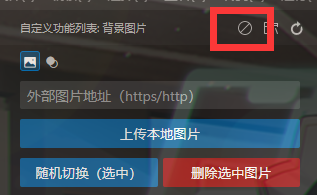
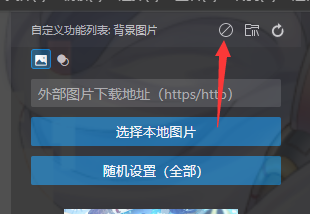
readme文件调整

diff --git a/README.md b/README.md
@@ -25,95 +25,136 @@
 
 ### 使用介绍
   - **上传图片：**
-    安装完扩展后，侧栏会出现此图标
+    1. 安装完扩展后，侧栏会出现此图标：
     <p align="center">
       <img width="200" src="https://raw.githubusercontent.com/wangyige0701/vscode-custom-extension/master/resources/docs/background/side-bar.png" />
     </p>
-    点击此图标，会进入操作页面，上传图片有两种方式：本地图片和网络图片
+    2. 点击图标，会进入操作页面，选择背景图片有两种方式：本地图片和网络图片：
     <p align="center">
       <img width="200" src="https://raw.githubusercontent.com/wangyige0701/vscode-custom-extension/master/resources/docs/background/local.png" alt="本地图片/local" />
       <img width="200" src="https://raw.githubusercontent.com/wangyige0701/vscode-custom-extension/master/resources/docs/background/network.png" alt="网络图片/network" />
     </p>
-    本地图片直接从文件夹选择，网络图片需要在输入框内输入图片地址，图片下载并保存成功后会在下方的列表中显示
+    3. 本地图片直接从文件夹选择，网络图片需要在输入框内输入图片地址。图片保存成功后会在下方的列表中显示：
     <p align="center">
       <img height="300" src="https://raw.githubusercontent.com/wangyige0701/vscode-custom-extension/master/resources/docs/background/display-in-list.png" />
     </p>
+  <br/>
+
   - **设置背景：**
-    点击图片列表的任意图片，弹框选择确认就成功设置背景，应用背景需要右下角弹框内选择重启窗口。
+    点击图片列表的任意图片，弹框选择确认就成功设置背景，设置完成后需要重启软件才能看到背景图应用。
+  <br/>
+
   - **删除图片：**
-    点击图片左上角的删除按钮就可以删除此图片，如果删除了当前设置的背景图，背景样式不会因此消失，仍可以正常显示，直到下一次切换背景。
+    点击图片右上角的删除按钮就可以删除此图片。如果删除了当前设置的背景图，背景样式不会因此消失，仍可以正常显示，直到下一次切换背景。
     <p align="center">
       <img width="200" src="https://raw.githubusercontent.com/wangyige0701/vscode-custom-extension/master/resources/docs/background/delete-image.png" />
     </p>
+  <br/>
+
   - **多选操作：**
-    点击图片左上角可以选中一张图片，选中的图片可以进行两种操作，一是同时删除，二是随机切换选中图片（下一条）
+    1. 点击图片左上角的按钮可以选中一张图片：
     <p align="center">
-      <img width="200" src="https://raw.githubusercontent.com/wangyige0701/vscode-custom-extension/master/resources/docs/background/checkbox.png" />
+      <img width="200" src="https://raw.githubusercontent.com/wangyige0701/vscode-custom-extension/master/resources/docs/background/select-image.png" />
     </p>
-    选中了一张图片后，可以进行全选和取消全选的操作
+    2. 在选中一张图片后可以进行全选或者取消选中的操作：
     <p align="center">
       <img width="200" src="https://raw.githubusercontent.com/wangyige0701/vscode-custom-extension/master/resources/docs/background/select-all.png" />
     </p>
+    3. 对于选中的图片可以进行一下两种操作 
+
+      - 同时删除，可以同时删除所有勾选的图片
+    <p align="center">
+      <img width="200" src="https://raw.githubusercontent.com/wangyige0701/vscode-custom-extension/master/resources/docs/background/delect-selected.png" />
+    </p>
+
+      - 随机切换选中图片，在选中的图片中进行背景图随机切换（详情可见下一条随即切换的描述）
+    <p align="center">
+      <img width="200" src="https://raw.githubusercontent.com/wangyige0701/vscode-custom-extension/master/resources/docs/background/random-selected.png" />
+    </p>
+  <br/>
+
   - **随机切换：**
     除了可以设置某张图片为背景，还可以设置多张图片在每次打开软件时切换背景。方式有两种：
-    1、随机切换所有图片，不选中任意图片，点击`随机切换（全部）`按钮可以切换所有图片的任意一张，设置完成后上传的图片也在切换对象中。
+    1. 随机切换所有图片。在不选中任意图片时，点击`随机切换（全部）`按钮可以切换所有图片中的任意一张。设置此状态后新添加的图片也会被加入切换列表。
     <p align="center">
       <img width="200" src="https://raw.githubusercontent.com/wangyige0701/vscode-custom-extension/master/resources/docs/background/random-all.png" />
     </p>
-    2、随机切换选中图片，选中一张以上图片后，点击`随即切换（选中）`按钮，可以切换选中图片的任意一张，上传图片不会影响，但是如果删除了某一张图片，则不会再切换此图片背景。
+    <br/>
+
+    2. 随机切换选中图片。选中一张以上图片后，点击`随即切换（选中）`按钮，可以切换选中图片的任意一张，新上传的图片不会进入切换列表。但是如果删除了某一张图片，则此图片会被移除切换列表。
     <p align="center">
-      <img width="200" src="https://raw.githubusercontent.com/wangyige0701/vscode-custom-extension/master/resources/docs/background/random-select.png" />
+      <img width="200" src="https://raw.githubusercontent.com/wangyige0701/vscode-custom-extension/master/resources/docs/background/random-selected.png" />
     </p>
+  <br/>
+
   - **清除配置：**
-    点击顶部`清除背景图配置`按钮可以关闭背景，修改的css文件会被复原，但是上传的图片仍会保存。
+    点击顶部`清除背景图配置`按钮可以关闭背景图，被修改的css文件会复原，本地保存的图片文件仍会存在。
     <p align="center">
       <img width="200" src="https://raw.githubusercontent.com/wangyige0701/vscode-custom-extension/master/resources/docs/background/clear.png" />
     </p>
+  <br/>
+
   - **切换储存路径：**
-    图片列表中的数据默认保存于扩展根目录下，即C盘中，如果需要切换保存文件夹，可以点击顶部`选择图片储存路径`按钮，修改了默认路径后会出现`重置图片储存路径`按钮，可以将储存路径重置回默认路径。
+    图片列表中的数据默认保存于扩展根目录下，即vscode插件目录里对应的扩展文件夹中。如果需要切换保存文件夹或者希望导入已有的图片文件夹，可以点击顶部`选择图片储存路径`按钮进行路径切换。
     <p align="center">
       <img width="200" src="https://raw.githubusercontent.com/wangyige0701/vscode-custom-extension/master/resources/docs/background/path-modify.png" />
     </p>
+    当修改了默认路径后会出现`重置图片储存路径`按钮，可以将储存路径重置回默认路径。
+    <p align="center">
+      <img width="200" src="https://raw.githubusercontent.com/wangyige0701/vscode-custom-extension/master/resources/docs/background/path-default.png" />
+    </p>
+  <br/>
+
   - **设置不透明度：**
-    修改不透明度输入框可以通过输入0.1~1的任意数字回车或者点击对勾完成设置，默认不透明度是0.3，本人体验最舒适。
+    修改不透明度输入框可以通过输入0.1~1的任意数字，回车或者点击确认按钮完成设置，默认不透明度是0.3。
     <p align="center">
       <img width="200" src="https://raw.githubusercontent.com/wangyige0701/vscode-custom-extension/master/resources/docs/background/opacity.png" />
     </p>
-
+<br/>
 
 ### 实现思路
   - 选择背景图后会将对应bese64数据单独存放于默认或者指定文件夹中，文件名为根据当前时间戳生成的哈希码。 
-  <br>
+  <br/>
+
   - 网络图片通过axios api进行下载，下载完成后同样会将文件base64输入存入指定路径下，并生成一个文件名。
-  <br>
+  <br/>
+
   - 每新增一张图片，就会将对应哈希码放入缓存数组内，后续新增、删除、修改操作都需要操作或者利用此数组。
-  <br>
+  <br/>
+
   - 设置背景图需要操作vscode的样式源文件，在vscode node执行环境(module指向的对象)路径下的`vs/workbench`目录内，需要修改的有两个文件。
     1. vscode的样式文件，需要在文件顶部插入一条css的导入语句`@import url("css url")`用来导入设置背景的样式文件。
+    <br/>
+
     2. 设置具体背景样式的css文件，此文件是有程序自己创建，设置背景的样式、动画和背景图base64数据（设置背景不会引用外部图片的路径，而是直接将图片的base64数据赋值给`background-image`属性）。
+    <br/>
+
     3. （css文件缓存更新） 开发中，发现更换背景图后背景有时没有更新，这是因为css文件会被缓存。源文件导入外部背景文件后会将此文件缓存，如果没有进行任何操作，下次打开软件时只会加载缓存文件的背景图。因此对源文件导入css的路径添加了一个`?time stamp`，在路径后接上一个时间戳，只要有另外的的修改就会更新时间戳从而重新加载文件。
     <p align="center">
       <img width="400" src="https://raw.githubusercontent.com/wangyige0701/vscode-custom-extension/master/resources/docs/background/css-import.png" />
     </p>
-  <br>
-  - 侧栏webview操作页面加载顺序：插件激活后，注册webview页面；webview页面开始加载，加载完成后发送通信请求图片数据；接收到图片信息后先进行图片加载渲染，加载完成后以队列形式执行其余加载透明度、加载当前背景图等方法。
-  <br>
-  <br>
-  - 设置背景不透明度，思路同样来自background-cover，因为背景设置是通过修改body的背景属性，而body又被一个div（即实际工作台容器）定位遮盖，所以要想背景被看见，需要让div变得透明，设置body或者工作台div的opacity属性都可以。目前背景图不透明度选择的范围是<font color="red">0.1~1</font>，要想背景图越透明，上层div容器就越不透明，因此给body设置<font color="red">0.9~0.5</font>的透明度，图片的0.1对应body的0.9，以此类推。
+  <br/>
 
+  - 侧栏webview操作页面加载顺序：插件激活后，注册webview页面；webview页面开始加载，加载完成后发送通信请求图片数据；接收到图片信息后先进行图片加载渲染，加载完成后以队列形式执行其余加载透明度、加载当前背景图等方法。
+  <br/>
+
+  - 设置背景不透明度，思路同样来自background-cover，因为背景设置是通过修改body的背景属性，而body又被一个div（即实际工作台容器）定位遮盖，所以要想背景被看见，需要让div变得透明，设置body或者工作台div的opacity属性都可以。目前背景图不透明度选择的范围是<font color="red">0.1~1</font>，要想背景图越透明，上层div容器就越不透明，因此给body设置<font color="red">0.9~0.5</font>的透明度，图片的0.1对应body的0.9，以此类推。
+<br/>
 
 ### 体验问题
   - 官方不建议对vscode的源码进行补丁行为（[具体可以点此查看](https://code.visualstudio.com/docs/supporting/faq#_installation-appears-to-be-corrupt-unsupported)），因此当修改背景图导致css文件被修改后，会被后台检测到，从而弹出一个警告（如下）。解决方法可以通过点击弹框右上角的设置按钮选择‘不再弹出’，当然这样操作如果有预期之外的文件修改同样不能发现。（[似乎可行的方法，有待尝试](https://github.com/lehni/vscode-fix-checksums/blob/master/extension.js)）
   <p align="center">
     <img width="400" src="https://raw.githubusercontent.com/wangyige0701/vscode-custom-extension/master/resources/docs/background/file-modify-warnign.png" />
   </p>
+  <br/>
 
   - 背景图的显示是通过设置body背景样式，而图片的透明状态是通过修改工作台div的不透明度，所以会存在工作台的所有元素都会变得透明这个问题，无论是图片还是代码都会比深色背景看起来更费劲，如果不喜欢这种体验则最好不要进行背景图的设置。~~目前的想法是可以对工作台div容器的before伪元素进行背景设置，保持容器不透明度不变，后续尝试能否优化。~~<font color="red">经过测试，工作台div容器对伪元素设置背景图防止子元素透明方法不成立：由于子元素层级过多且不同地方设有背景色，会导致工作台的祖先div即类名为window的div容器即使设置了背景图也会被子元素的背景色遮盖，必须给body设置opacity全局透明才能显示背景图。</font>
-
+  <br/>
 
 ### webview页面开发经验
   - 开发webview页面需要通过实现`WebviewViewProvider`内的`resolveWebviewView`方法，将html文本赋值给webview的html属性，为了实现普通的html开发体验，我使用node编写了一个脚本，每次编译时会将指定webview开发目录下的文件进行遍历，提取html文件获取文本内容，根据脚本符#js、#css获取设置引用js、css文件的位置，并根据根目录生成正确的引用路径进行脚本符替换。
-  <br>
+  <br/>
+  
   - 而在测试中发现css、js文件只能引用一个路径，所以为了进行文件的拆分开发，同样使用脚本将js、css目录下的文件分别遍历，获取文本内容进行排序合并，并写入于html同级目录下创建的index.css、index.css文件中。至此，可以像普通的html项目一样使用html、css、js进行开发。
   > 当前版本使用此方法进行webview开发仍有优化点，因为设计过程中未进行考虑，所以目前只能在生产环境中进行实时文件合并，虽然加上了对生产环境进行版本校验，但更新版本后的合并操作仍然属于不必要的开销。<br/>
   > 目前的想法是，后续版本新增一个打包命令，文件合并完成后再将所有文件推送上传，这就需要将判断方法改为：
